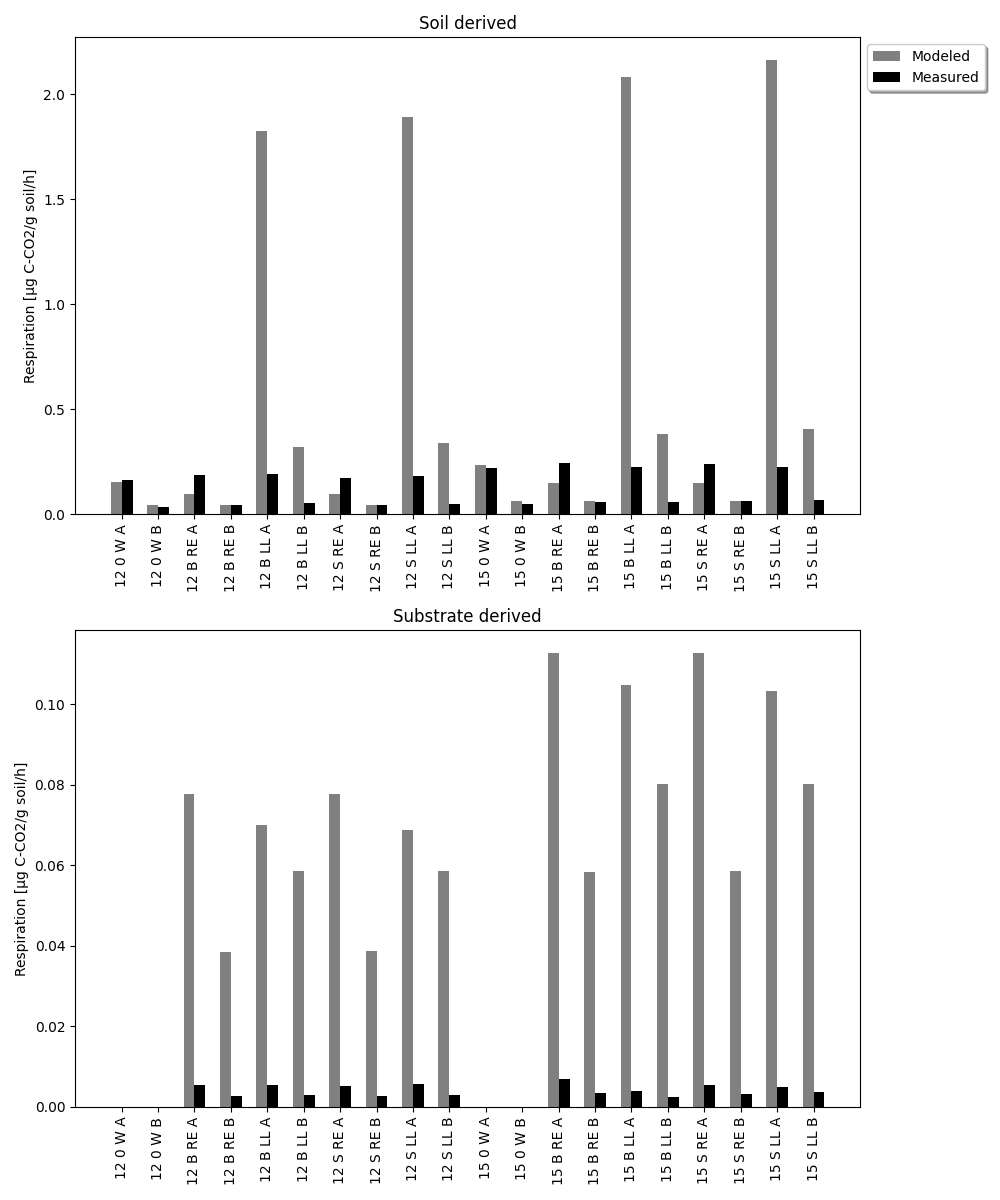
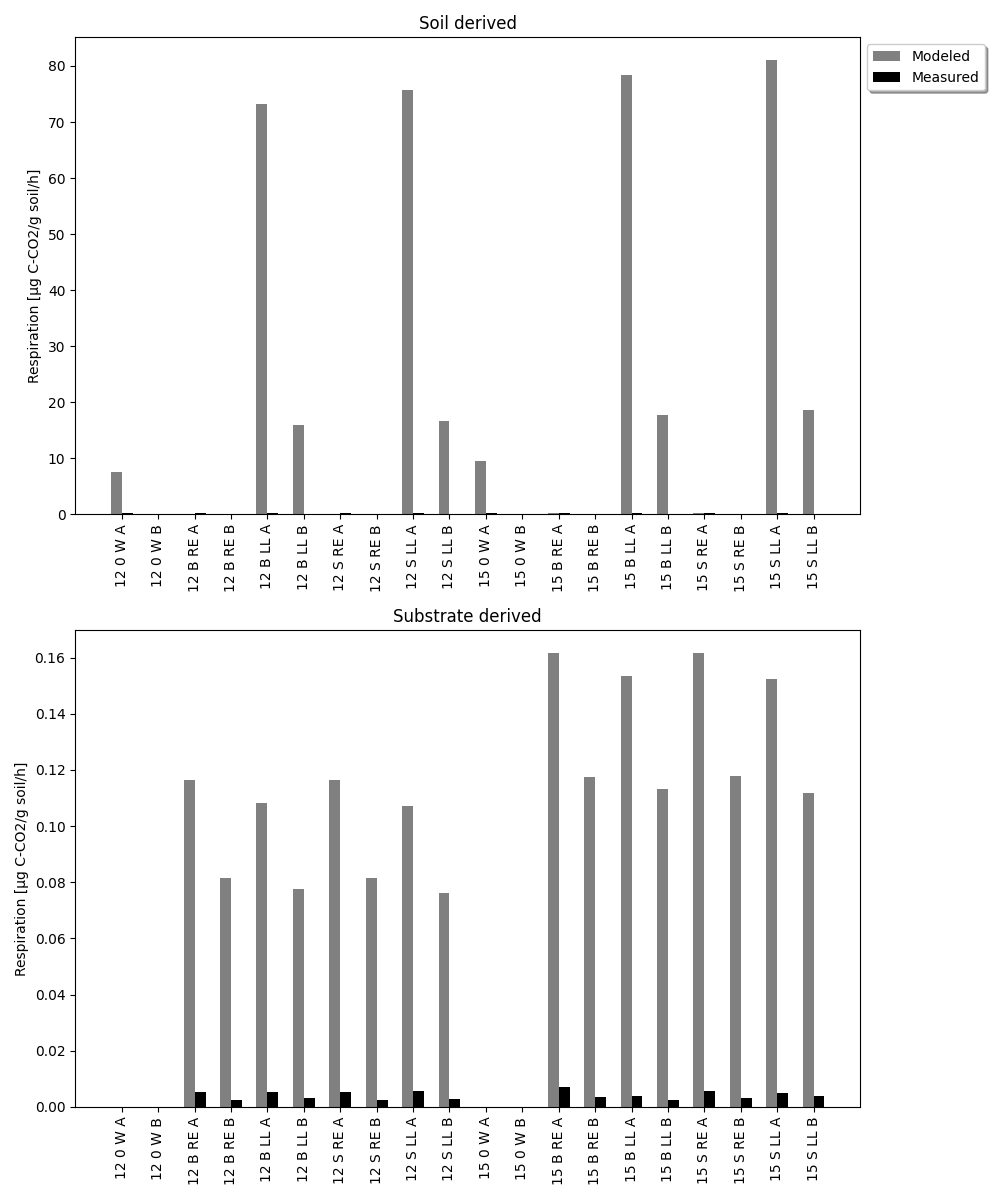
Validation of the 100,000 run

diff --git a/Potprim_main.py b/Potprim_main.py
@@ -10,7 +10,7 @@ import time
 
 import numpy as np
 import pandas as pd
-from numpy import random as ra
+from numpy import random as raf
 from scipy import stats
 from scipy.stats import qmc
 import BayesianFunctionsPotprim
@@ -617,6 +617,7 @@ if mode_ == "Bayesian":
 
     data_measured = inputBayesianRun.iloc[:, 17:49]
     data_measured_errors = inputBayesianRun.iloc[:, 49:81]
+
     # data_measured_errors.columns
     # inputBayesianRun({"sample"})
     # obtain nonnumeric and numeric part of variable name separately
@@ -749,6 +750,9 @@ if mode_ == "Bayesian":
                 "overall likelihood",
                 data_Simulated[treatment]["sim likelihood"],
             )
+
+            # if treatment == 3:
+            #     sys.exit()
             # if treatment == 3:
             #     break
             # sys.exit('safety stop to run only for first 2 treatments')
@@ -882,6 +886,10 @@ if mode_ == "Bayesian":
             if it is worse it is sometimes accepted depending on the random
             """
             print("log_likelihood_sim1", log_likelihood_sim1)
+            print("log_likelihood_sim0", log_likelihood_sim0)
+
+            # if treatment == 2:
+            #     sys.exit()
             alpha = (
                 log_likelihood_sim1 / log_likelihood_sim0
             )  # if new is better this is bigger than 1
@@ -1076,30 +1084,39 @@ if mode_ == "Validation":
             f1
         )  # only the parameters that were accepted, all of them
 
-    ##### Latin Hypercube ############
-    # Extract likelihoods (keys) and parameters sets (values) from uploaded json
-    likelihoods = []
-    parameter_sets = []
-
-    for likelihood, parameters in calibParam.items():
-        likelihoods.append(float(likelihood))
-        parameter_sets.append(parameters)
-
-    # Calculate weights of the likelihoods
-    total_likelihood = sum(likelihoods)
-    weights = [likelihood / total_likelihood for likelihood in likelihoods]
-
-    # Actual Latin Hypercube
-    n_samples = 3  # Adjust based on your needs
-    sampler = qmc.LatinHypercube(d=len(parameter_sets))
-    sample = sampler.random(n=n_samples)
-
+    # Select parameter sets
     selected_sets = []
     selected_likelihoods = []
-    for i in range(n_samples):
-        index = np.random.choice(len(parameter_sets), p=weights)
-        selected_sets.append(parameter_sets[index])
-        selected_likelihoods.append(index)
+
+    ##### Latin Hypercube ############
+    # # Extract likelihoods (keys) and parameters sets (values) from uploaded json
+    # likelihoods = []
+    # parameter_sets = []
+
+    # for likelihood, parameters in calibParam.items():
+    #     likelihoods.append(float(likelihood))
+    #     parameter_sets.append(parameters)
+
+    # # Calculate weights of the likelihoods
+    # total_likelihood = sum(likelihoods)
+    # weights = [likelihood / total_likelihood for likelihood in likelihoods]
+
+    # # Actual Latin Hypercube
+    # n_samples = 3  # Adjust based on your needs
+    # sampler = qmc.LatinHypercube(d=len(parameter_sets))
+    # sample = sampler.random(n=n_samples)
+
+    # for i in range(n_samples):
+    #     index = np.random.choice(len(parameter_sets), p=weights)
+    #     selected_sets.append(parameter_sets[index])
+    #     selected_likelihoods.append(index)
+
+    # Select 1 set of parameters with the highest likelihood
+    # calibParam = {key: value for key, value in calibParam.items() if float(key) <= -1000}
+    calibParam = {k: calibParam[k] for k in sorted(calibParam)}
+    likelihood = list(calibParam.keys())[-1]
+    selected_sets.append(calibParam[likelihood])
+    selected_likelihoods.append(likelihood)
 
     # Save the set of parameters that will be used
     with open(os.path.join(sharable_path, "setParamValidation.json"), "w") as json_file:
@@ -1118,18 +1135,11 @@ if mode_ == "Validation":
 
         # Write the header
         if not file_exists or file_is_empty:
-            csv_writer.writerow(["Set", "Variable"])
+            csv_writer.writerow(["Set", "Likelihood"])
 
         for index, likelihood in enumerate(selected_likelihoods):
             # Write the key and values to the CSV file
             csv_writer.writerow([index + 1, likelihood])
-
-    ############# That's all for Latin Hypercube ########################
-
-    # # Select 1 set of parameters with the highest likelihood
-    # calibParam = {k: calibParam[k] for k in sorted(calibParam)}
-    # likelihood = list(calibParam.keys())[-1]
-    # setCalibParam = calibParam[likelihood]
 
     # Merge calibrated parameters with the fixed ones – this should happen inside the for loop in the future
     with open("fixedParameters.json", "r") as f2:

diff --git a/BayesianFunctionsPotprim.py b/BayesianFunctionsPotprim.py
@@ -20,14 +20,14 @@ def block_print():
     sys.stdout = open(os.devnull, "w")
 
 
-def calc_sim_likelyhood(measurement, simulation, error):  # calculates loglikelihood
+def calc_sim_likelyhood(simulation, measurement, error):  # calculates loglikelihood
     if pd.isna(
         measurement
     ):  # if there is missing measured value, there needs to be a way implemented on how to standardiye the likelihood, because assigning loglikelihood zero will influence the results
         raise ValueError(
             "Measurement used in calibration cannot be NA."
         )  # safety break if this ever happens
-
+    # err = error
     if error == 0:  # if the error is zero (because of 100% certainty)
         error = 1e-6  # assign some very small error, this will influence the result in the way that the loglikelihood will become positive but this should be fine
 
@@ -37,6 +37,19 @@ def calc_sim_likelyhood(measurement, simulation, error):  # calculates loglikeli
     sim_loglikelihood = -0.5 * ((measurement - simulation) / error) ** 2 - np.log(
         error
     )  # calculates loglikelihood (without a constant term − 0.5log(2π_ This term is often omitted (when maximizing likelihood)
+
+    # if err == 0:
+    #     print("Sim_loglikelihood:", sim_loglikelihood)
+    #     print(type(sim_loglikelihood))
+
+    #     print("Error:", error)
+    #     print(type(error))
+
+    #     print("log:", np.log(error))
+    #     print(type(np.log(error)))
+
+    # print("division by zero:", ((measurement - simulation) / error))
+    # print(type((measurement - simulation) / error))
 
     return sim_loglikelihood
 
